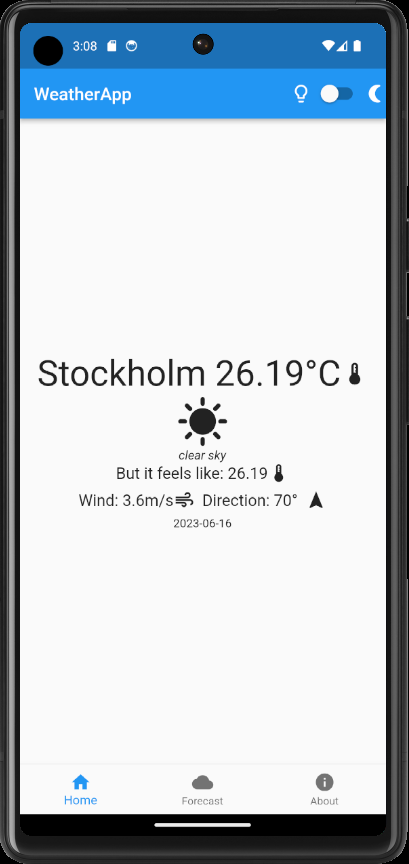
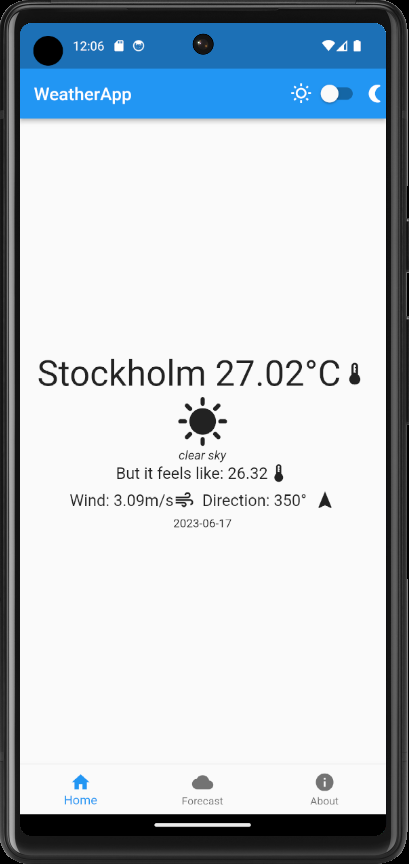
Adds alert boxes to show errors to users, also added new images

diff --git a/lib/weatherpage.dart b/lib/weatherpage.dart
@@ -5,6 +5,7 @@ import 'dart:convert';
 import 'env_variables.dart';
 import 'package:intl/intl.dart';
 import 'package:geolocator/geolocator.dart';
+import 'package:quickalert/quickalert.dart';
 
 class WeatherPage extends StatefulWidget {
   const WeatherPage({super.key});
@@ -17,7 +18,8 @@ class _WeatherPageState extends State<WeatherPage> {
   Map<String, dynamic>? weatherData;
 
   Future<void> fetchWeatherData() async {
-    Position position = await fetchGeolocation(); //The variable of position needs to wait for the method to get the users location first
+    Position position =
+        await fetchGeolocation(); //The variable of position needs to wait for the method to get the users location first
     var apiKey = EnvVariables.apiKey;
     var latitude = position.latitude;
     var longitude = position.longitude;
@@ -40,14 +42,21 @@ class _WeatherPageState extends State<WeatherPage> {
     }
   }
 
-  Future<Position> fetchGeolocation() async {
-    LocationPermission permission;
-    permission = await Geolocator.checkPermission();
-    if (permission == LocationPermission.denied || permission == LocationPermission.deniedForever) { 
-        return Future.error('Location permissions are denied');
-    }
-    return await Geolocator.getCurrentPosition();
-  }
+Future<Position> fetchGeolocation() async {
+  LocationPermission permission = await Geolocator.checkPermission();
+  permission = await Geolocator.requestPermission();
+    if (permission == LocationPermission.deniedForever) {
+      QuickAlert.show(
+        context: context,
+        type: QuickAlertType.error,
+        title: 'Could not get your position!',
+        text: 'It seems like location permissions are denied for this app!',
+      );
+      permission = await Geolocator.requestPermission();
+    } 
+  return await Geolocator.getCurrentPosition();
+}
+
 
   @override
   void initState() {

diff --git a/lib/forecast_page.dart b/lib/forecast_page.dart
@@ -42,8 +42,7 @@ class _ForecastPageState extends State<ForecastPage> {
   Future<Position> fetchGeolocation() async {
     LocationPermission permission;
     permission = await Geolocator.checkPermission();
-    if (permission == LocationPermission.denied ||
-        permission == LocationPermission.deniedForever) {
+    if (permission == LocationPermission.denied) {
       return Future.error('Location permissions are denied');
     }
     return await Geolocator.getCurrentPosition();
